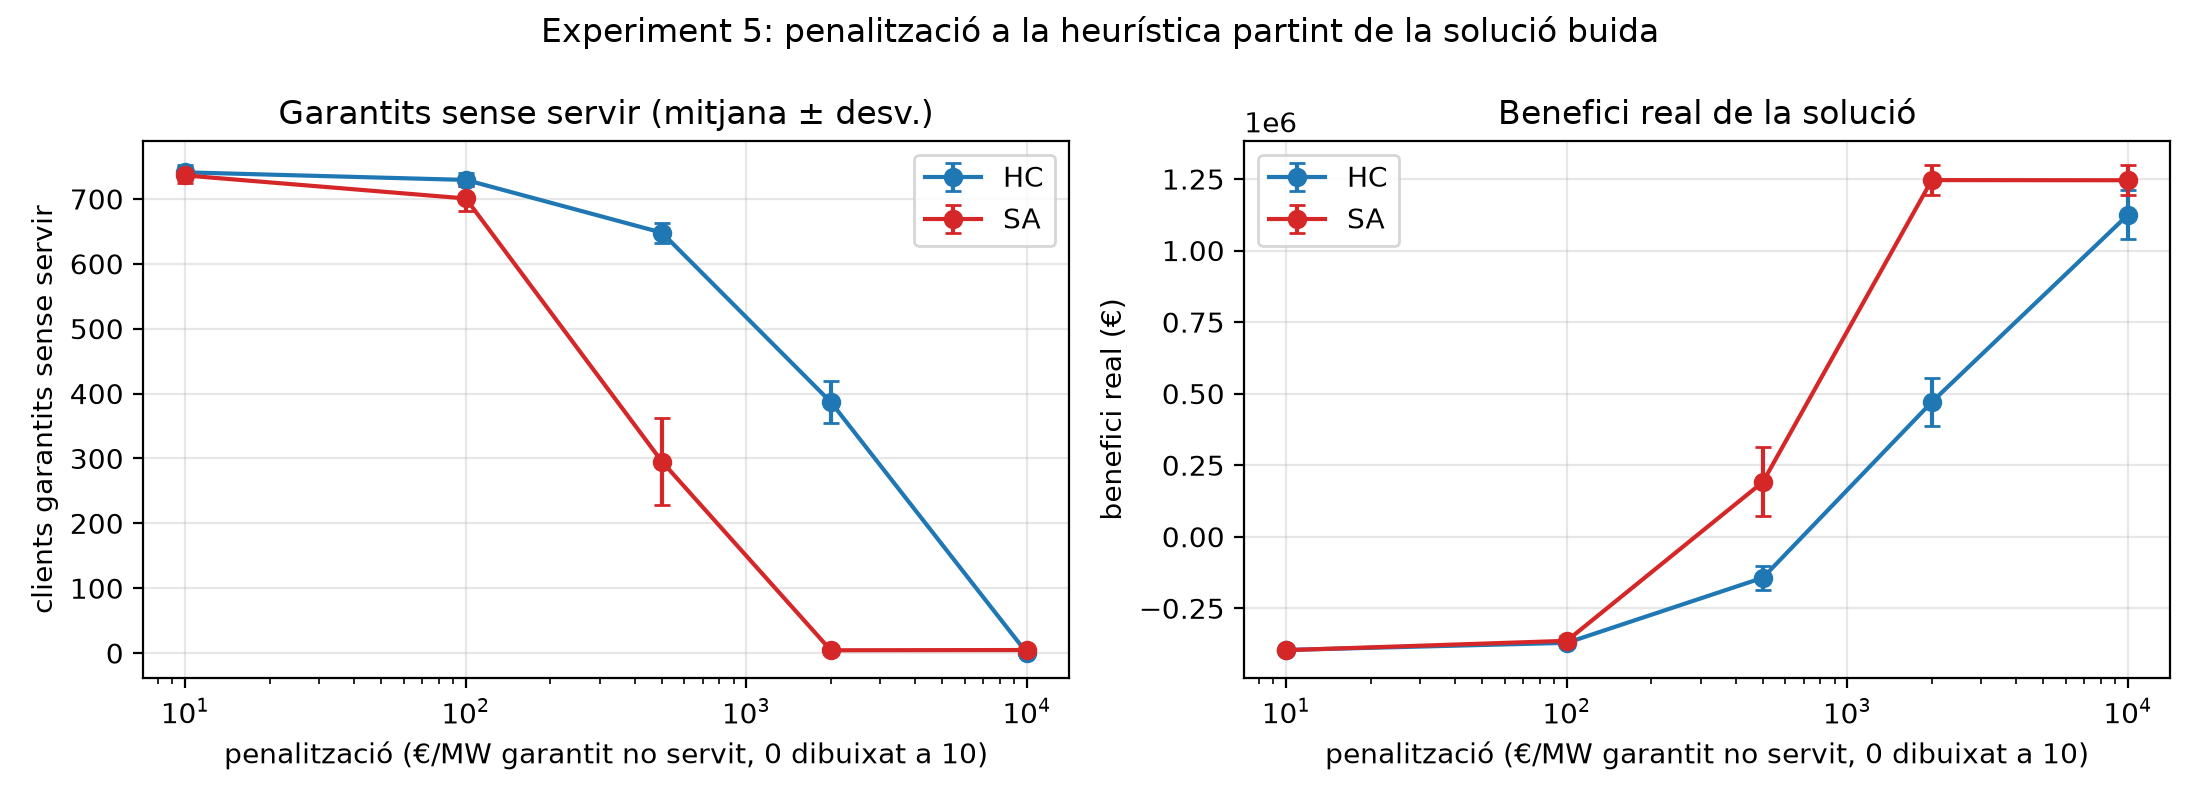
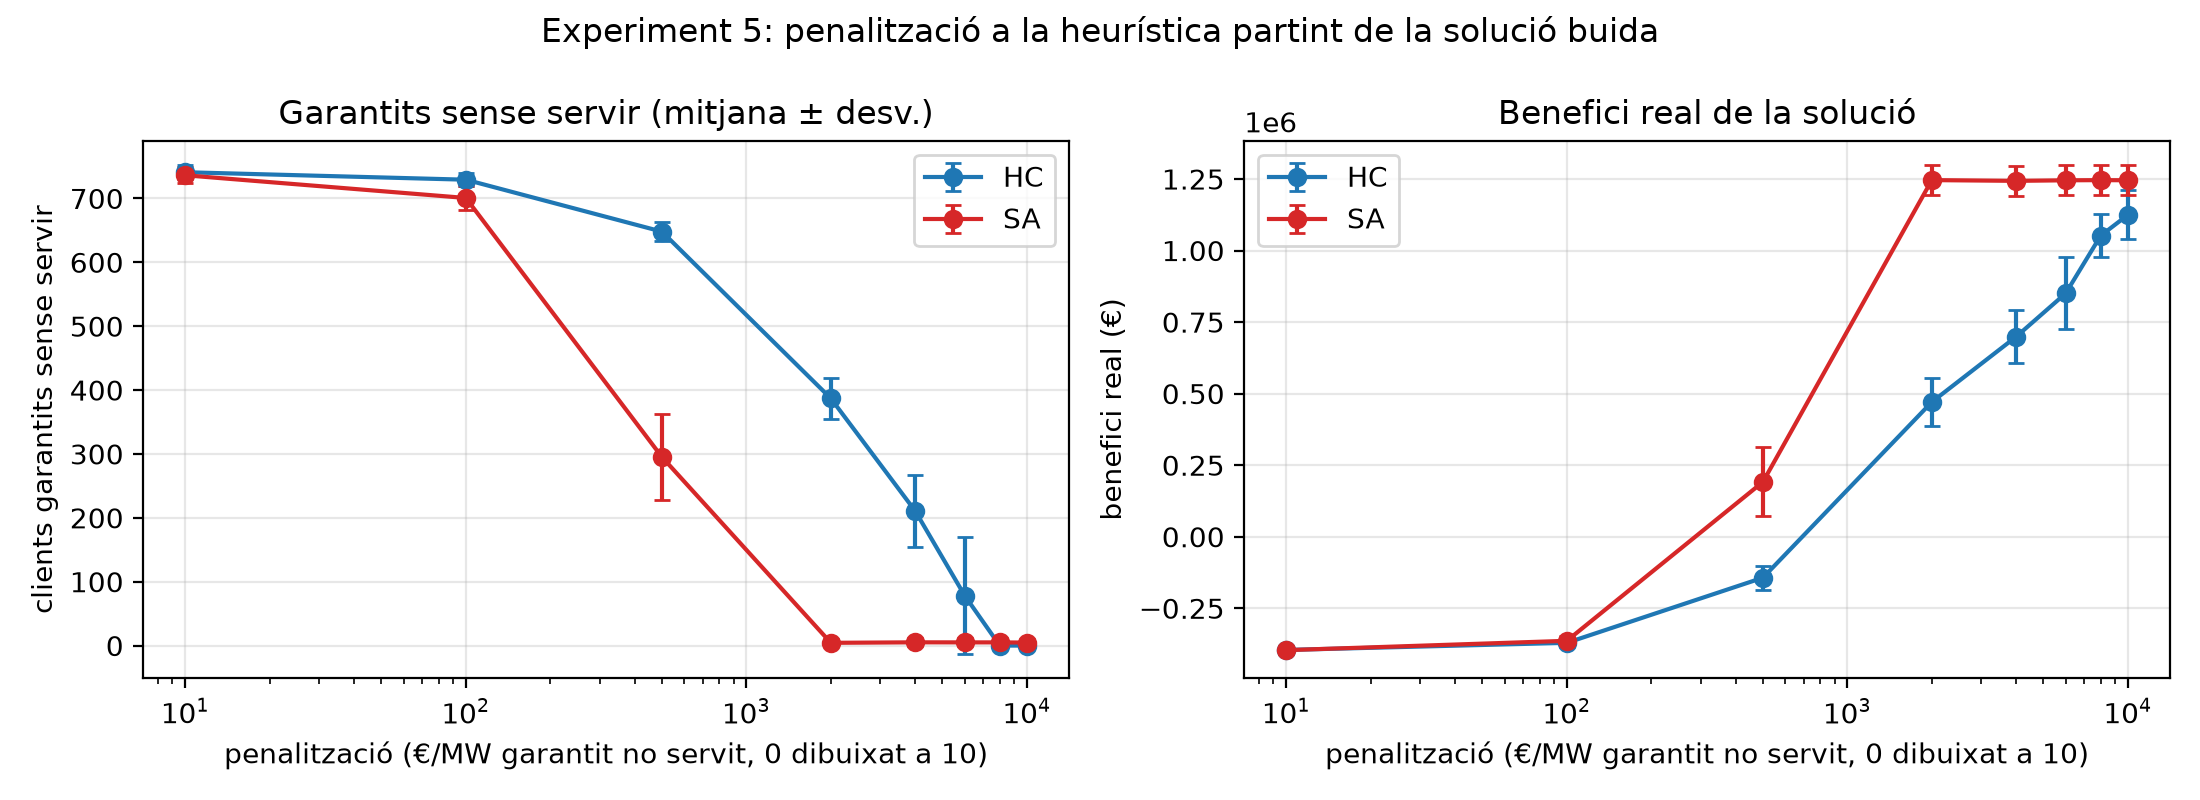
21:42

diff --git a/code/experiments.py b/code/experiments.py
@@ -224,7 +224,7 @@ def experiment_4():
 
 # EXP 5: Si ara no servir a un client garantit tmb és solució vàlida, com se'ls hauria de penalitzar a la funció heurística? (HC i SA)
 def experiment_5():
-    penalties = (4000, 6000, 8000)
+    penalties = (0, 100, 500, 2000, 4000, 6000, 8000, 10000)
     for algorithm in ("HC", "SA"):
         for penalty in penalties:
             values, durations, steps, neighbors, unserved_guaranteed, profits = [], [], [], [], [], []
@@ -364,7 +364,7 @@ def experiment_B():
     for algorithm in ("HC", "SA"):
         values, durations, steps, neighbors, profits, losses = [], [], [], [], [], []
         for params in escenaris:
-            config = replace(params) #falta comprovar al exp3
+            config = replace(params)
 
             if algorithm == "HC":
                 e = EnergyNetworkProblem(config)
@@ -379,7 +379,7 @@ def experiment_B():
             if algorithm == "HC":
                 solution = hill_climbing(ip)
             else:
-                solution = simulated_annealing(ip, schedule) #falta saber el millot schedule a partor del exp3
+                solution = simulated_annealing(ip, schedule) #schedule escollit a l'experiment 3
             duration = time.perf_counter() - start
             value = e.value(solution)
             profit, lost_mw = profit_and_losses(e, solution)
@@ -400,4 +400,9 @@ def experiment_B():
               f"Avg Steps/Iter: {mean(steps):.2f}, Avg Neighbors: {mean(neighbors):.2f}")
 
 if __name__ == "__main__":
-    experiment_3B()
+    #ús: python experiments.py 1 2 3A ... (els experiments que es vulguin executar)
+    import sys
+    experiments = {"1": experiment_1, "2": experiment_2, "3A": experiment_3A, "3B": experiment_3B, "4": experiment_4,
+                   "5": experiment_5, "6": experiment_6, "A": experiment_A, "B": experiment_B}
+    for nom in sys.argv[1:]:
+        experiments[nom]()
